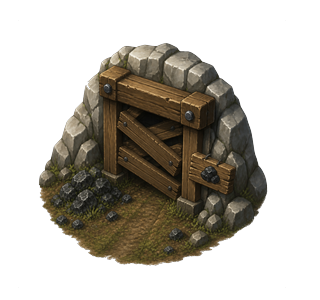
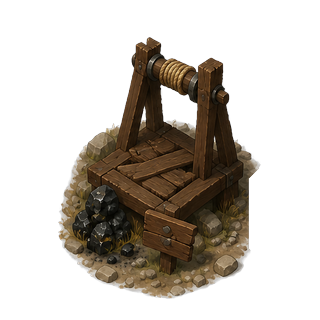
Schachtminen und gemalte Fahnen einbauen (v105)
Lieferung 7, Läufe 2 bis 5. Die Stollenminen weichen den Schächten.

Minen: elf Bilder auf 320x320 mit gemeinsamer Standlinie y=300 und
Schachtmitte x=160 - vier fördernde, vier erschöpfte, drei Baustufen.
render.js erkennt das Format am Bildmaß (mineSchacht) und schaltet ohne
Codeänderung von der 320x300-Stollenmine um. Alle elf teilen sich EINEN
Maßstab, sonst springt die Mine beim Wechsel zwischen Baustufe, Betrieb
und Erschöpfung.

Beim Zuschneiden drei Eigenheiten der Blätter:
- Die Geröllkränze berühren sich auf dem Blatt. Ein gerader Schnitt nimmt
  immer ein Stück vom Nachbarn mit, deshalb wird an der billigsten Naht
  getrennt - ein Pfad, der dem weissen Keil zwischen den Minen folgt.
- Der Zwickel zwischen den Bockbeinen ist ein DURCHBLICK und muss heraus,
  das Glanzlicht im Fahnentuch ist Objekt und muss bleiben. Beides sind
  eingeschlossene helle Flächen; unterschieden wird am Ton.
- Der Kranz ist ins Weiss hinein ausgewaschen gemalt. Eine harte Kante
  ließe davon einen hellen Ring auf der Wiese stehen, also blendet er
  nach seiner Helligkeit aus.

Fahne: obj_flag und obj_flag_gross lösen die prozedural gezeichnete ab,
die Hauptburg bekommt den grossen Wimpel. Das cremeweisse Tuch liegt als
eigenes Blatt bei und wird zur Laufzeit mit der Spielerfarbe
multipliziert - die Faltenschatten bleiben dabei erhalten. Bewusst ohne
ctx.filter, das kostet auf iOS die ganze Zeichnung. Verankert am Fuss des
[…]

diff --git a/js/render.js b/js/render.js
@@ -61,6 +61,12 @@ const FM_MOSS   = 7.4;   // Moos           70 px -> 27,7 Weltpixel
 const MINE_F = 0.265;
 const MINE_BODEN = 288;      // Bodenlinie in Bildzeilen (von 300)
 const MINE_DOM = 0.474;      // Domachse als Anteil der Bildbreite
+// Wegfahne und Burgfahne (obj_flag / obj_flag_gross, je 352x384).
+// Beide teilen sich Leinwand und Anker; dass die Burgfahne größer wirkt,
+// steckt schon im Bild – sie füllt die Leinwand höher aus.
+const FLAG_H = 25;           // Zeichenhöhe der ganzen Leinwand in Weltpixeln
+const FLAG_ANKER_X = 0.3125; // Mastfuß als Anteil der Bildbreite
+const FLAG_BODEN = 376/384;  // Standlinie als Anteil der Bildhöhe
 const OUT='rgba(88,58,34,0.5)';    // Standard-Kontur (warm, weich)
 // natürliche Blickrichtung der Figuren-Bilder: -1 = schaut nach links, 1 = nach rechts
 const UNIT_FACING={
@@ -9559,10 +9565,53 @@ export class Renderer {
       }
     }
   }
+  // Spielerfarbe auf ein Blatt legen, ohne den Rest mitzufärben.
+  // Bewusst NUR mit Composite-Operationen: ctx.filter ist hier verboten,
+  // es hat auf iOS die ganze Zeichnung gekostet (Aufgabe 33).
+  // 'multiply' erhält die Faltenschatten des cremeweißen Tuchs – eine
+  // flache Farbfläche würde es platt machen. 'destination-in' holt danach
+  // die Alphakante des Blattes zurück, die das Füllrechteck plattgemacht hat.
+  eingefaerbt(name, col){
+    const spr=this.asset(name);
+    if(!spr || !spr.naturalWidth) return null;
+    this._tintCache=this._tintCache||new Map();
+    const key=name+'|'+col;
+    let c=this._tintCache.get(key);
+    if(c) return c;
+    c=document.createElement('canvas');
+    c.width=spr.naturalWidth; c.height=spr.naturalHeight;
+    const cx=c.getContext('2d');
+    cx.drawImage(spr,0,0);
+    cx.globalCompositeOperation='multiply';
+    cx.fillStyle=col; cx.fillRect(0,0,c.width,c.height);
+    cx.globalCompositeOperation='destination-in';
+    cx.drawImage(spr,0,0);
+    this._tintCache.set(key,c);
+    return c;
+  }
   drawFlag(g, m, game, i){
     let [x,y]=this.doorVisualPos(i);   // Türfahnen stehen direkt am Eingang
     y-=this.liftAt(i)*HSCALE;          // auf angehobenem Fels (G1)
     const pl=m.owner[i];
+    const col=pl>=0?PLAYER_COLORS[pl]:'#999';
+    // Gemalte Fahne, sobald das Blatt im Paket liegt. Die Hauptburg bekommt
+    // den großen Wimpel mit Quasten, jede andere Fahne den schlichten.
+    const bd=this._doorMap && this._doorMap.get(i);
+    const name=(bd && bd.type==='hq') ? 'obj_flag_gross' : 'obj_flag';
+    const spr=this.asset(name);
+    if(spr && spr.naturalWidth){
+      const hh=FLAG_H, ww=hh*(spr.naturalWidth/spr.naturalHeight);
+      // Verankert am FUSS DES MASTES, nicht an der Bildmitte: das Tuch weht
+      // nach rechts und zieht die Bounding Box mit sich. Auf die Bildmitte
+      // gesetzt stünde die Fahne neben ihrem Klickkreis (Aufgabe 47) und
+      // spränge beim Wechsel klein/groß.
+      const dx=x-FLAG_ANKER_X*ww, dy=y-FLAG_BODEN*hh;
+      g.drawImage(spr, dx, dy, ww, hh);
+      const tuch=this.eingefaerbt(name+'_tuch', col);
+      if(tuch) g.drawImage(tuch, dx, dy, ww, hh);
+      this.flagGoods(g, game, i, x, y);
+      return;
+    }
     this.shadow(g,x+1,y+1.4,4,1.6,0.28);
     // Mast (etwas kleiner, damit er die Figuren nicht überragt)
     g.strokeStyle='#3d2c18'; g.lineWidth=2.2;
@@ -9571,7 +9620,6 @@ export class Renderer {
     g.beginPath(); g.moveTo(x-0.5,y-1); g.lineTo(x-0.5,y-14); g.stroke();
     g.fillStyle='#c9a05a'; g.beginPath(); g.arc(x,y-15.5,1.4,0,7); g.fill();
     // wehender Ritter-Wimpel mit Schwalbenschwanz
-    const col=pl>=0?PLAYER_COLORS[pl]:'#999';
     const w1=Math.sin(this.time/260+i)*1.4, w2=Math.sin(this.time/260+i+1.4)*2;
     g.fillStyle=col;
     g.beginPath();
@@ -9587,13 +9635,15 @@ export class Renderer {
     g.moveTo(x,y-15); g.quadraticCurveTo(x+5.5,y-15.8+w1, x+11,y-13.8+w2);
     g.lineTo(x+10.2,y-13+w2); g.quadraticCurveTo(x+5,y-14.6+w1,x,y-13.7);
     g.closePath(); g.fill();
-    // wartende Waren als kleiner Stapel (Bild-Assets, sonst Kistchen)
+    this.flagGoods(g, game, i, x, y);
+  }
+  // wartende Waren als kleiner Stapel (Bild-Assets, sonst Kistchen)
+  flagGoods(g, game, i, x, y){
     const items=game.flagItems.get(i);
-    if(items && items.length){
-      for(let k=0;k<Math.min(items.length,8);k++){
-        const bx=x-7+(k%4)*5.6, by=y+4.4+Math.floor(k/4)*5;
-        this.drawGood(g, items[k].good, bx, by, 7.4);
-      }
+    if(!items || !items.length) return;
+    for(let k=0;k<Math.min(items.length,8);k++){
+      const bx=x-7+(k%4)*5.6, by=y+4.4+Math.floor(k/4)*5;
+      this.drawGood(g, items[k].good, bx, by, 7.4);
     }
   }
   // ---------- Kampf- und Zerstörungseffekte (game.fx, rein kosmetisch) ----------

diff --git a/sw.js b/sw.js
@@ -6,7 +6,7 @@
 // Server längst die neue auslieferte. Beim Installieren wird zusätzlich am
 // HTTP-Cache vorbei geladen (cache:'reload'), sonst holt sich der neue
 // Serviceworker über die noch gültigen Cache-Header wieder die alten Bytes.
-const BUILD = 'v104';
+const BUILD = 'v105';
 const CACHE = 'neuland-' + BUILD;
 const FILES = [
   './', './index.html', './style.css', './manifest.webmanifest',
